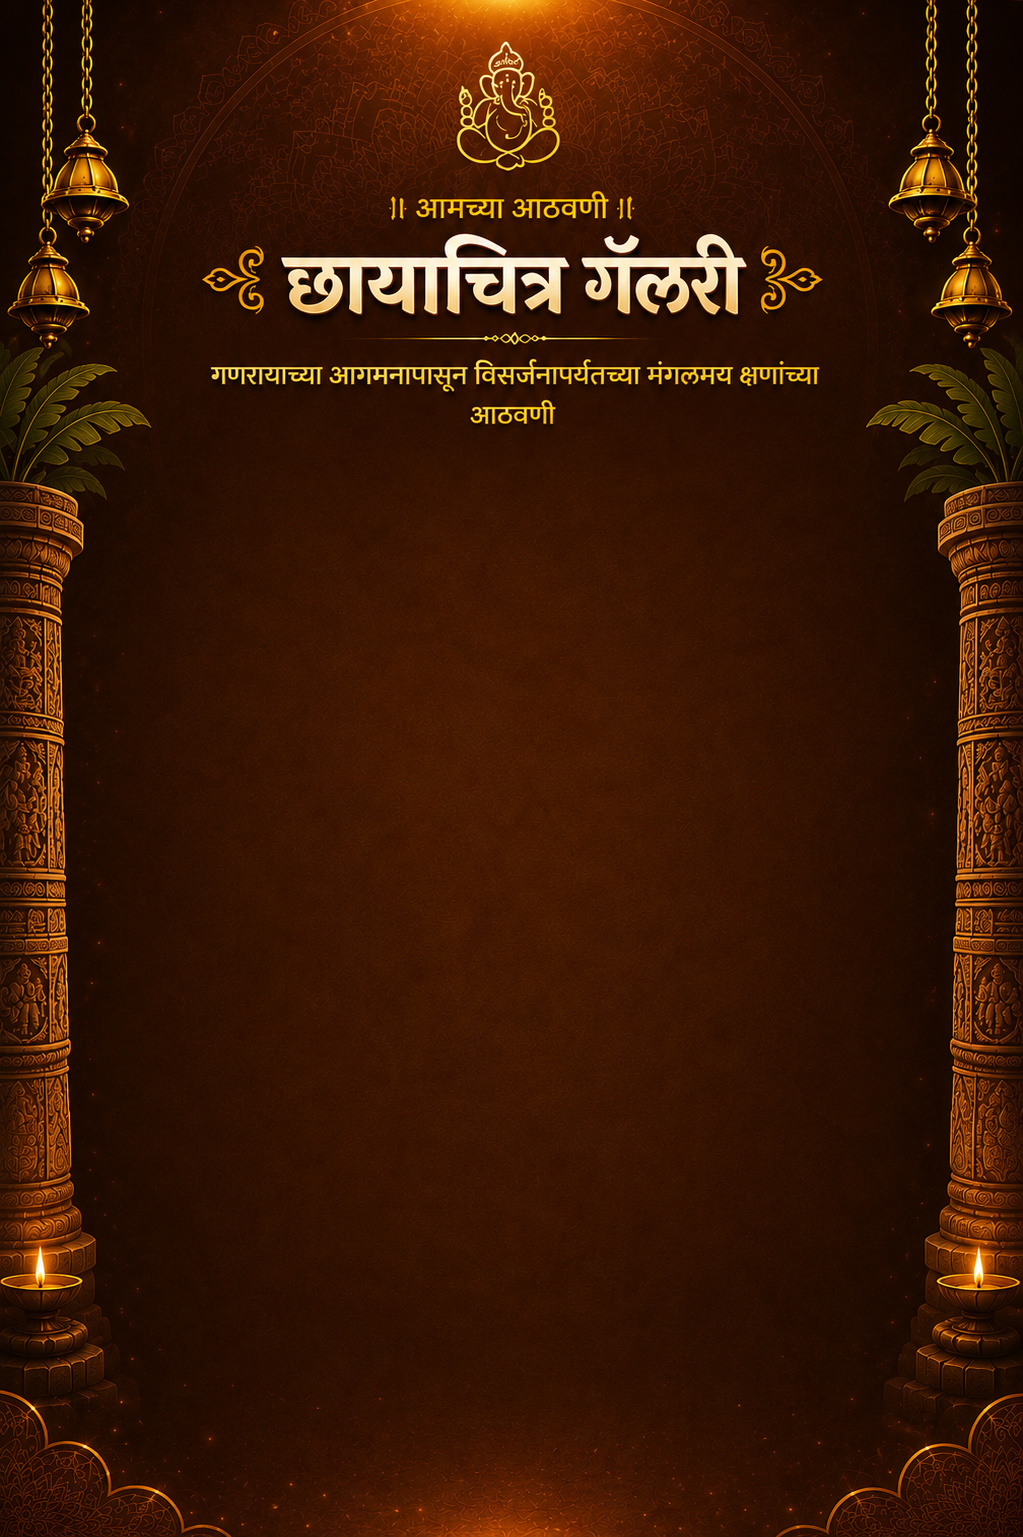
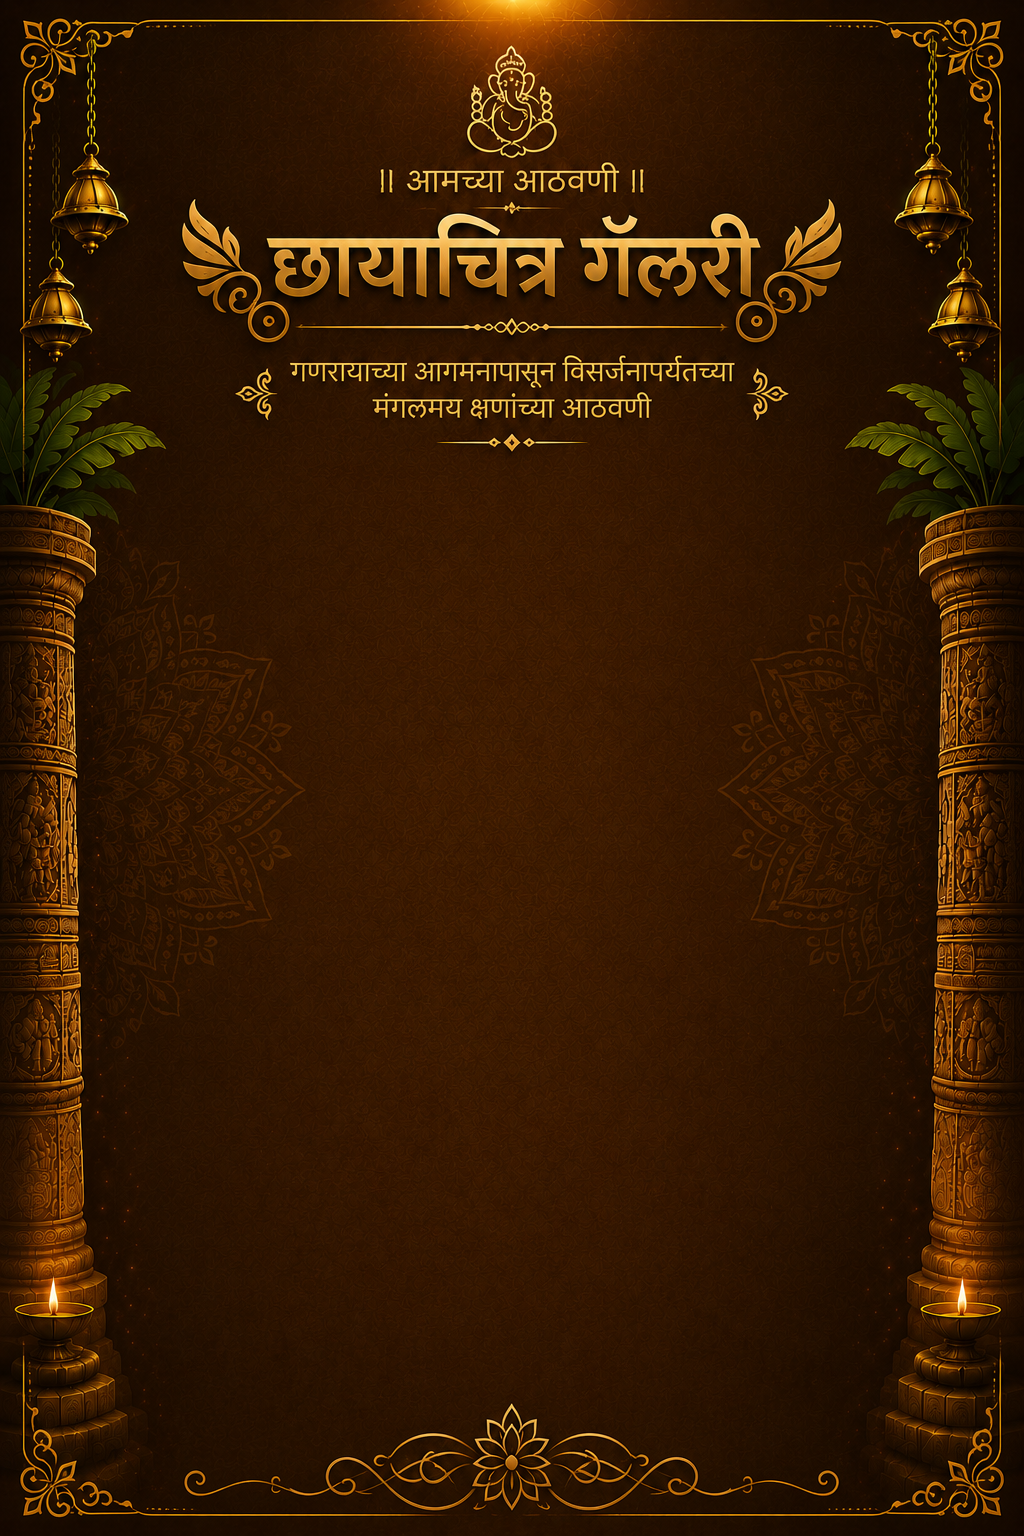
Update UI

Changed region(s): [[0.0, 0.0, 1.0, 1.0], [0.1818, 0.0, 0.8182, 0.3125], [0.1515, 0.0938, 0.1818, 0.125]]

diff --git a/components/Timeline.tsx b/components/Timeline.tsx
@@ -79,22 +79,40 @@ export default function Timeline({ events }: TimelineProps) {
   }
 
   return (
-    <section
-      className="
-        relative
-        overflow-hidden
-        bg-gradient-to-b
-        from-amber-50
-        via-[#fff8e8]
-        to-amber-100/80
-        px-4
-        py-16
-        sm:px-6
-        sm:py-20
-        lg:px-8
-        lg:py-24
-      "
-    >
+   <section
+  className="
+    relative
+    overflow-hidden
+    px-4
+    py-16
+    sm:px-6
+    sm:py-20
+    lg:px-8
+    lg:py-24
+  "
+>
+  {/* BACKGROUND */}
+  <Image
+    src="/images/backgrounds/timeline-bg.png"
+    alt=""
+    fill
+    priority
+    sizes="100vw"
+    className="pointer-events-none absolute inset-0 -z-20 h-full w-full object-cover object-center"
+  />
+
+  {/* SOFT OVERLAY */}
+  <div
+    aria-hidden="true"
+    className="
+      pointer-events-none
+      absolute
+      inset-0
+      -z-10
+      bg-[#fff8e8]/20
+    "
+  />
+
       {/* ========================================================
           BACKGROUND DECORATION
       ======================================================== */}

diff --git a/components/Blessings.tsx b/components/Blessings.tsx
@@ -113,7 +113,7 @@ export default function Blessings() {
     <section className="relative overflow-hidden px-6 py-14 text-center">
 
       {/* =====================================================
-          RESPONSIVE BACKGROUND
+          RESPONSIVE BACKGROUND images
       ====================================================== */}
 
       <Image
@@ -123,7 +123,6 @@ export default function Blessings() {
         priority
         className="
           pointer-events-none
-          -z-20
           hidden
           object-cover
           md:block
@@ -131,13 +130,12 @@ export default function Blessings() {
       />
 
       <Image
-        src="/images/backgrounds/invitation-mobile-bg.png"
+        src="/images/backgrounds/blessing-bg.png"
         alt=""
         fill
         priority
         className="
           pointer-events-none
-          -z-20
           object-cover
           md:hidden
         "

diff --git a/components/Footer.tsx b/components/Footer.tsx
@@ -17,7 +17,7 @@ export default function Footer({
     <footer className="relative overflow-hidden px-6 py-12 text-center">
       {/* Footer Background */}
       <Image
-        src="/images/backgrounds/footer-background.png"
+        src="/images/backgrounds/footer-mobile-background.png"
         alt=""
         fill
         priority={false}
